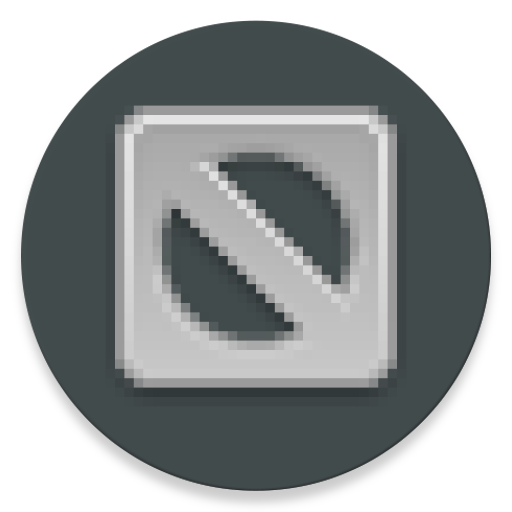
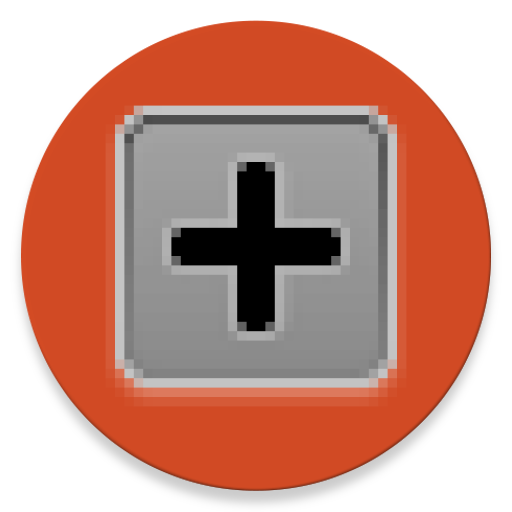
button connect & new button hide controls

diff --git a/app/src/main/java/phramusca/com/jamuzremote/MainActivity.java b/app/src/main/java/phramusca/com/jamuzremote/MainActivity.java
@@ -901,6 +901,7 @@ public class MainActivity extends AppCompatActivity {
                 local=enable;
                 if(!enable) {
                     buttonConnect.setText("Close");
+                    buttonConnect.setBackgroundResource(R.mipmap.connect);
                 } else {
                     setupSpinner(localPlaylists, localSelectedPlaylist);
                 }
@@ -1338,6 +1339,7 @@ public class MainActivity extends AppCompatActivity {
             public void run() {
                 enableGUI(false);
                 buttonConnect.setText("Connect");
+                buttonConnect.setBackgroundResource(R.mipmap.disconnect);
                 buttonConnect.setEnabled(true);
                 editTextConnectInfo.setEnabled(true);
             }
